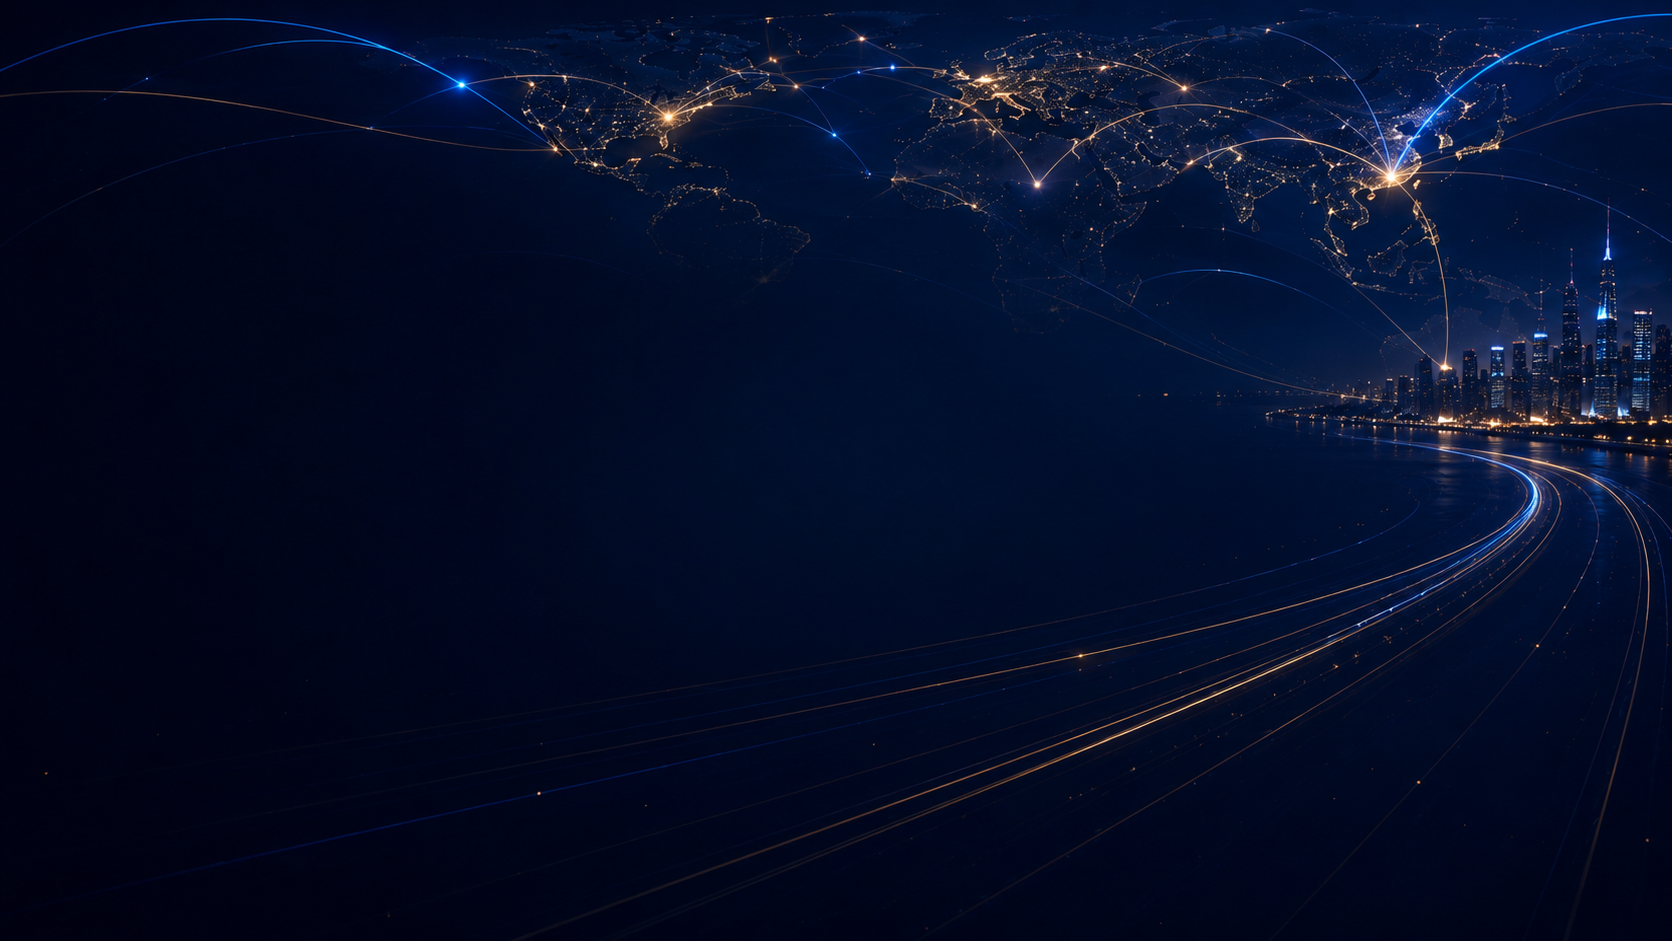
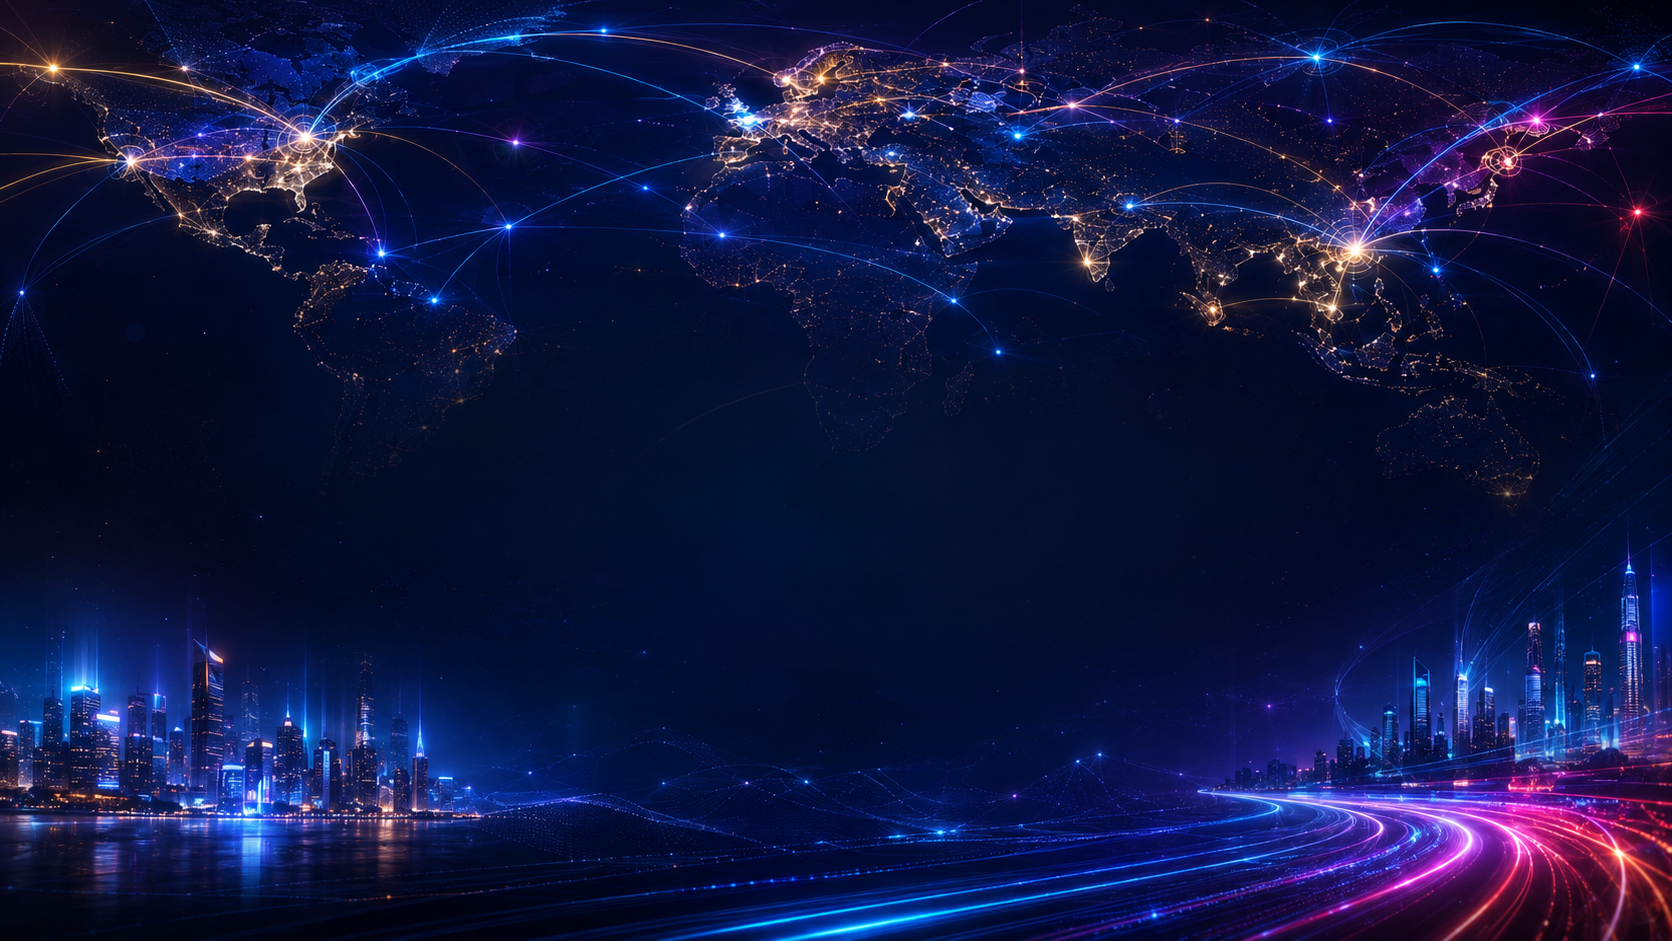
fix(ui): align visual background asset paths

diff --git a/src/screens/CaNhanScreen.tsx b/src/screens/CaNhanScreen.tsx
@@ -58,7 +58,7 @@ type Nav = NativeStackNavigationProp<RootStackParamList>;
 const ADMIN_UNLOCK_KEY = STORAGE_KEYS.adminUnlock;
 
 const ft = vionaTokens.fashionTech;
-const IMG_ACCOUNT_CONSTELLATION = require('../../assets/UI/viona-account-global-network-bg-v1.png');
+const IMG_ACCOUNT_CONSTELLATION = require('../../assets/UI/viona-account-global-net-bg-v2.png');
 const constellationImageWebFit =
   Platform.OS === 'web'
     ? ({ objectFit: 'cover' as const, objectPosition: '52% 20%' as const } as const)

diff --git a/src/screens/b2c/LocalScreen.tsx b/src/screens/b2c/LocalScreen.tsx
@@ -77,7 +77,7 @@ type ClassifiedPost = Readonly<{
 }>;
 
 const VIP_POSTING_COST_VIG = 120;
-const LOCAL_GLOBAL_BG = require('../../../assets/UI/viona-local-global-network-bg-v1.png');
+const LOCAL_GLOBAL_BG = require('../../../assets/UI/viona-local-global-net-bg-v2.png');
 const BG = localConstellation.canvas;
 const SURFACE = localConstellation.surfaceRaised;
 const INK = localConstellation.ink;